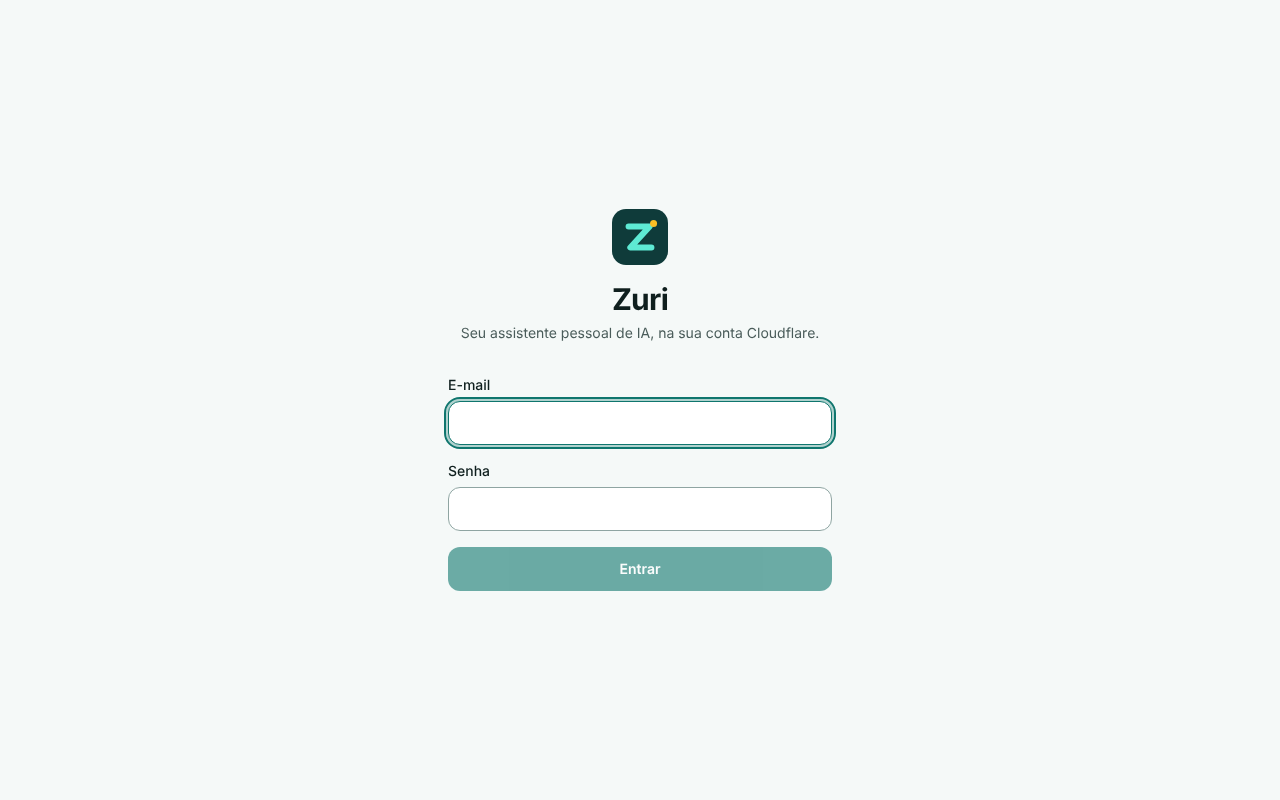
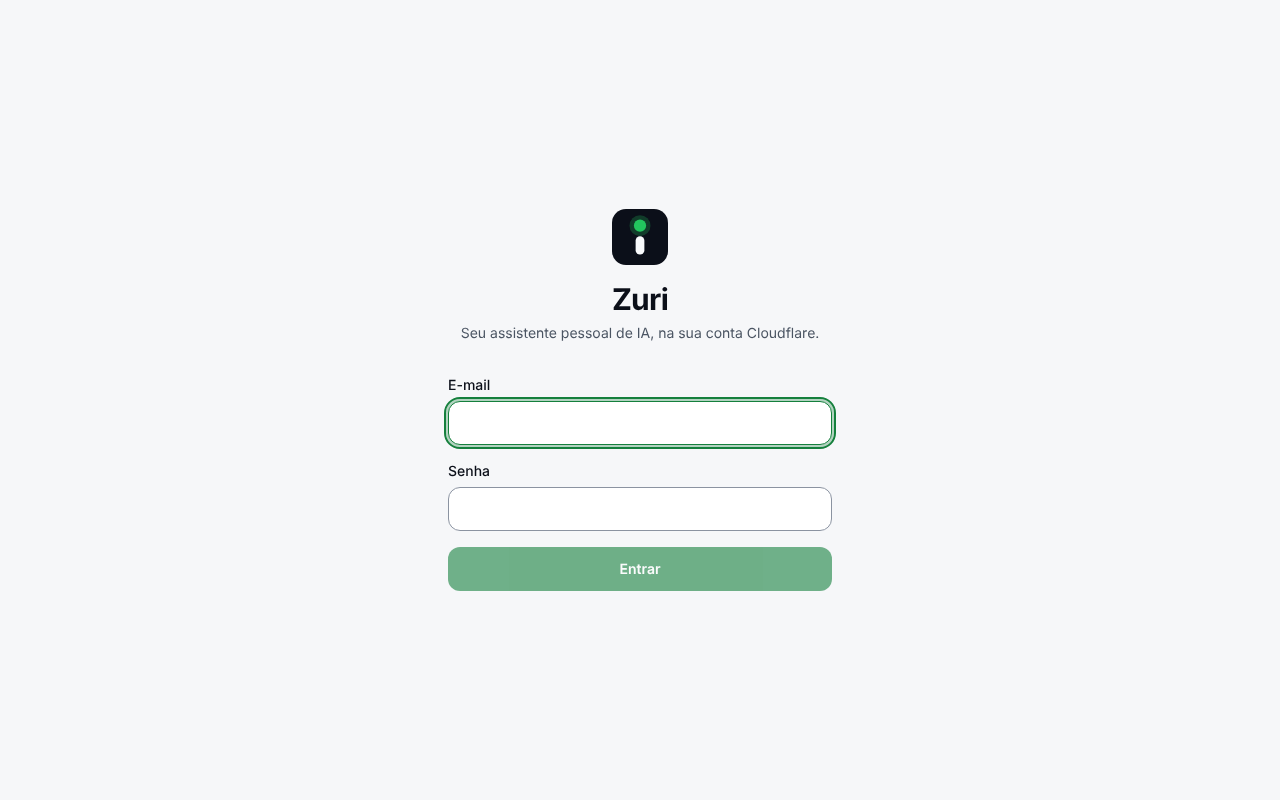
style: aplica a identidade visual "Sinal" (#11)
Claude-Session: https://claude.ai/code/session_012XDDEh6Pz1nVR2LMDxcdBF

Changed region(s): [[0.3438, 0.6562, 0.6562, 0.75], [0.3438, 0.5, 0.6562, 0.5625], [0.4688, 0.25, 0.5312, 0.3438]]

diff --git a/apps/web/src/styles.css b/apps/web/src/styles.css
@@ -4,55 +4,57 @@
 @custom-variant dark (&:where(.dark, .dark *));
 
 /*
- * Zuri's palette ("Brisa"): calm teal with an amber spark. Every color the
- * interface uses comes from these tokens, so another identity is one block to
- * change. Text pairs keep WCAG AA contrast in both themes (4.5:1 or more).
+ * Zuri's palette ("Sinal"): ink neutrals with one green light, the dot of the
+ * logo's i. Green means "working" across the interface, so it stays the only
+ * accent. Every color the interface uses comes from these tokens. Text pairs
+ * keep WCAG AA contrast in both themes (4.5:1 or more).
  */
 @theme {
-  --color-bg: #f5f9f8;
+  --color-bg: #f6f7f9;
   --color-surface: #ffffff;
-  --color-raised: #eef4f3;
-  --color-fg: #0f1f1e;
-  --color-fg-muted: #4a5c5a;
-  --color-border: #d3dfdd;
-  --color-border-strong: #8fa5a2;
-  --color-accent: #0f766e;
-  --color-accent-hover: #115e59;
+  --color-raised: #eef0f4;
+  --color-fg: #0b0f19;
+  --color-fg-muted: #4b5563;
+  --color-border: #dde1e8;
+  --color-border-strong: #8b93a1;
+  --color-accent: #15803d;
+  --color-accent-hover: #166534;
   --color-accent-fg: #ffffff;
-  --color-accent-soft: #d5f5ef;
-  --color-accent-text: #0f665f;
+  --color-accent-soft: #dcfce7;
+  --color-accent-text: #166534;
   --color-danger: #b42318;
   --color-danger-soft: #fdecea;
   --color-success: #12703a;
   --color-success-soft: #e3f6ea;
   --color-warning: #8a4b00;
   --color-warning-soft: #fdf1dc;
-  --color-brand-tile: #0f3b3a;
-  --color-brand-mark: #5eead4;
-  --color-brand-spark: #fbbf24;
+  --color-brand-tile: #0b0f19;
+  --color-brand-mark: #f8fafc;
+  --color-brand-signal: #22c55e;
   --font-sans: system-ui, -apple-system, "Segoe UI", Roboto, "Helvetica Neue", Arial, sans-serif;
 }
 
 .dark {
-  --color-bg: #0a1413;
-  --color-surface: #101e1d;
-  --color-raised: #162826;
-  --color-fg: #e4f1ef;
-  --color-fg-muted: #a3b9b6;
-  --color-border: #24403d;
-  --color-border-strong: #4f6f6b;
-  --color-accent: #5eead4;
-  --color-accent-hover: #99f6e4;
-  --color-accent-fg: #042f2e;
-  --color-accent-soft: #123b37;
-  --color-accent-text: #7ff0dc;
+  --color-bg: #0b0f19;
+  --color-surface: #121826;
+  --color-raised: #1a2233;
+  --color-fg: #e8ecf3;
+  --color-fg-muted: #a3acbd;
+  --color-border: #263043;
+  --color-border-strong: #56627a;
+  --color-accent: #4ade80;
+  --color-accent-hover: #86efac;
+  --color-accent-fg: #052e16;
+  --color-accent-soft: #0f2e1c;
+  --color-accent-text: #6ee7a0;
   --color-danger: #ffb4ab;
   --color-danger-soft: #3b1715;
   --color-success: #86efac;
   --color-success-soft: #10301d;
   --color-warning: #fcd34d;
   --color-warning-soft: #33270a;
-  --color-brand-tile: #12403e;
+  /* A step lighter than the page, so the tile still shows on it. */
+  --color-brand-tile: #1a2233;
   color-scheme: dark;
 }
 

diff --git a/tests/e2e/states.spec.ts b/tests/e2e/states.spec.ts
@@ -7,6 +7,13 @@ import { expectAccessible, signIn } from "./ui-helpers.ts";
 
 test.use({ locale: "pt-BR", timezoneId: "America/Sao_Paulo" });
 
+// A rewritten answer can still be in flight when the test ends (a heartbeat or
+// the session check after sign-out); without this, fulfilling it after the page
+// closed fails the test in teardown.
+test.afterEach(async ({ page }) => {
+  await page.unrouteAll({ behavior: "ignoreErrors" });
+});
+
 /** Rewrites each session state the page receives (sign-in, session, heartbeat). */
 async function rewriteSessionState(page: Page, change: (state: Record<string, unknown>) => void) {
   await page.route(/\/api\/auth\/(login|session|heartbeat)$/, async (route) => {
@@ -85,12 +92,12 @@ test("the theme choice applies at once and stays after a reload", async ({ page 
   const theme = page.getByRole("group", { name: "Tema" });
   await theme.getByText("Escuro").click();
   await expect(page.locator("html")).toHaveClass(/dark/);
-  await expect(page.locator('meta[name="theme-color"]')).toHaveAttribute("content", "#0a1413");
+  await expect(page.locator('meta[name="theme-color"]')).toHaveAttribute("content", "#0b0f19");
   await page.reload();
   await expect(page.getByRole("heading", { level: 1, name: "Configurações" })).toBeVisible();
   await expect(page.locator("html")).toHaveClass(/dark/);
   await expect(theme.getByRole("radio", { name: "Escuro" })).toBeChecked();
   await theme.getByText("Claro").click();
   await expect(page.locator("html")).not.toHaveClass(/dark/);
-  await expect(page.locator('meta[name="theme-color"]')).toHaveAttribute("content", "#f5f9f8");
+  await expect(page.locator('meta[name="theme-color"]')).toHaveAttribute("content", "#f6f7f9");
 });

diff --git a/apps/web/src/components/Logo.tsx b/apps/web/src/components/Logo.tsx
@@ -1,15 +1,19 @@
 import { cn } from "./ui.tsx";
 
 /**
- * Zuri's mark ("Brisa"): a Z drawn in one stroke on a deep teal tile, with an
- * amber spark. The same drawing as public/favicon.svg and the app icons.
+ * Zuri's mark ("Sinal"): an i whose dot is a green light. The same drawing as
+ * public/favicon.svg and the app icons. With `working`, the light pulses: the
+ * mark doubles as the sign that Zuri is busy (motion-safe only).
  */
-export function Logo({ className }: { className?: string }) {
+export function Logo({ className, working = false }: { className?: string; working?: boolean }) {
   return (
     <svg viewBox="0 0 64 64" className={cn("h-8 w-8 shrink-0", className)} aria-hidden="true" focusable="false">
       <rect width="64" height="64" rx="16" className="fill-brand-tile" />
-      <path d="M19 20h24L21 44h24" fill="none" className="stroke-brand-mark" strokeWidth="7" strokeLinecap="round" strokeLinejoin="round" />
-      <circle cx="47.5" cy="16.5" r="4" className="fill-brand-spark" />
+      <g className={cn("fill-brand-signal", working && "motion-safe:animate-pulse")}>
+        <circle cx="32" cy="19" r="12" opacity="0.25" />
+        <circle cx="32" cy="19" r="7" />
+      </g>
+      <rect x="27" y="31" width="10" height="21" rx="5" className="fill-brand-mark" />
     </svg>
   );
 }

diff --git a/scripts/gerar-icones.ts b/scripts/gerar-icones.ts
@@ -13,8 +13,7 @@ const logo = readFileSync(join(PUBLIC, "favicon.svg"), "utf8");
 /** The logo inside a full-bleed tile, its mark within the maskable safe zone (the inner 80%). */
 const maskable = logo
   .replace('rx="16"', 'rx="0"')
-  .replace(/<path /, '<g transform="translate(32 32) scale(0.72) translate(-32 -32)"><path ')
-  .replace("</svg>", "</g></svg>");
+  .replace("<g>", '<g transform="translate(32 32) scale(0.72) translate(-32 -32)">');
 
 const ICONS: { file: string; size: number; svg: string }[] = [
   { file: "favicon-32.png", size: 32, svg: logo },

diff --git a/apps/web/src/lib/theme.ts b/apps/web/src/lib/theme.ts
@@ -29,7 +29,7 @@ export function applyTheme(pref: ThemePreference): void {
   const set = () => {
     const dark = resolve(pref) === "dark";
     document.documentElement.classList.toggle("dark", dark);
-    document.querySelector('meta[name="theme-color"]')?.setAttribute("content", dark ? "#0a1413" : "#f5f9f8");
+    document.querySelector('meta[name="theme-color"]')?.setAttribute("content", dark ? "#0b0f19" : "#f6f7f9");
   };
   set();
   if (media && listener) media.removeEventListener("change", listener);

diff --git a/apps/web/index.html b/apps/web/index.html
@@ -4,7 +4,7 @@
     <meta charset="utf-8" />
     <meta name="viewport" content="width=device-width, initial-scale=1, viewport-fit=cover" />
     <meta name="description" content="Zuri: seu assistente pessoal de IA, na sua conta Cloudflare." />
-    <meta name="theme-color" content="#f5f9f8" />
+    <meta name="theme-color" content="#f6f7f9" />
     <meta name="color-scheme" content="light dark" />
     <meta name="referrer" content="same-origin" />
     <title>Zuri</title>

diff --git a/apps/web/src/components/RequireSession.tsx b/apps/web/src/components/RequireSession.tsx
@@ -23,7 +23,7 @@ export function RequireSession({ children }: { children: ReactNode }) {
   if (loading) {
     return (
       <FullScreen>
-        <Logo className="h-12 w-12" />
+        <Logo className="h-12 w-12" working />
         <Spinner label={t("web.session.checking")} />
       </FullScreen>
     );

diff --git a/.claude/memoria/decisoes.md b/.claude/memoria/decisoes.md
@@ -23,6 +23,7 @@ Fatos e decisões já tomados pelo Pablo. O agente não pergunta de novo nada da
 | 30/10/2026 | Especificação auditada por auditor independente; as correções (reconhecimento cruzado de alertas de segurança, trava de leitura do bot, bloqueio com saída por código de recuperação, processamento no Durable Object, prévia montada pelo servidor, webhook registrado pelo Worker) já estão na especificação. |
 | 30/10/2026 | Modo contínuo: o agente mescla sozinho na `develop` quando CI, QA e auditoria passam e segue para a próxima etapa numa conversa nova, sem pausa por fase. Para só nos bloqueios (algo que o Pablo fornece, etapa 21, decisão de produto, custo, falha persistente, achado de segurança). `main`, release e deploy continuam com o Pablo. O ruleset da `develop` exige CI verde e não exige aprovação humana. |
 | 31/10/2026 | Skills externas instaladas e usadas automaticamente: `mattpocock/skills`, `nateherkai/scroll-craft`, `cloudflare/security-audit-skill` e `blader/humanizer`, fixadas por commit em `.claude/skills-externas/` e instaladas por `scripts/instalar-skills.sh` no início de cada sessão. Atualização só por PR, depois de ler o diff. Geração paga de imagens do scroll-craft (kie.ai) bloqueada sem OK. |
+| 31/10/2026 | Identidade visual "Sinal": um i cujo pingo é uma luz verde (`#22c55e`) sobre tinta (`#0b0f19`); o verde é o único destaque e significa "trabalhando". Escolhida entre 17 opções. |
 
 ## Padrões em vigor até o Pablo dizer outra coisa
 

diff --git a/docs/interface.md b/docs/interface.md
@@ -55,11 +55,16 @@ resposta de `/api/*` sai com `Cache-Control: no-store`, e o cliente pede com
 
 ## Identidade visual
 
-Opção "Brisa": Z em um traço só, verde-água (`#5eead4`) sobre um quadrado
-verde-azulado escuro (`#0f3b3a`), com uma faísca âmbar (`#fbbf24`). Todas as
-cores da interface são variáveis em `apps/web/src/styles.css`; trocar a
-identidade é trocar esse bloco, o `Logo.tsx`, o `public/favicon.svg` e gerar os
-ícones de novo com `node scripts/gerar-icones.ts`.
+Opção "Sinal", escolhida pelo Pablo: um "i" claro sobre um quadrado cor de
+tinta (`#0b0f19`), com o pingo do i como uma luz verde (`#22c55e`). O verde
+quer dizer "trabalhando" na interface toda, por isso é o único destaque. O
+`Logo` aceita `working`, que faz a luz pulsar (só com movimento permitido); a
+tela "Conferindo a sua sessão" já usa. O desenho passou no recorte redondo do
+avatar do Telegram, no favicon de 16 px e em uma cor só (ícone de notificação).
+
+Todas as cores da interface são variáveis em `apps/web/src/styles.css`; trocar
+a identidade é trocar esse bloco, o `Logo.tsx`, o `public/favicon.svg` e gerar
+os ícones de novo com `node scripts/gerar-icones.ts`.
 
 ## Acessibilidade
 

diff --git a/CHANGELOG.md b/CHANGELOG.md
@@ -47,7 +47,9 @@ o [SemVer](https://semver.org/lang/pt-BR/). Cada PR escreve a sua entrada em
   central de avisos (vazia até a etapa 11) e Configurações com as abas Conta,
   Segurança, IA, Avisos, Integrações e Dados. Tema claro, escuro ou como o
   sistema, layout para celular e computador, em pt-BR e en.
-- Identidade visual do Zuri (logo, favicon, ícones e cores).
+- Identidade visual do Zuri, "Sinal": logo de um i cujo pingo é uma luz
+  verde, que pulsa enquanto o Zuri trabalha; favicon, ícones e cores da
+  interface nos dois temas.
 - App instalável (PWA) no celular e no computador.
 - Na aba Conta: idioma, fuso horário, aparência e troca de senha. Na aba
   Segurança: ligar e desligar a verificação em duas etapas com QR code e
